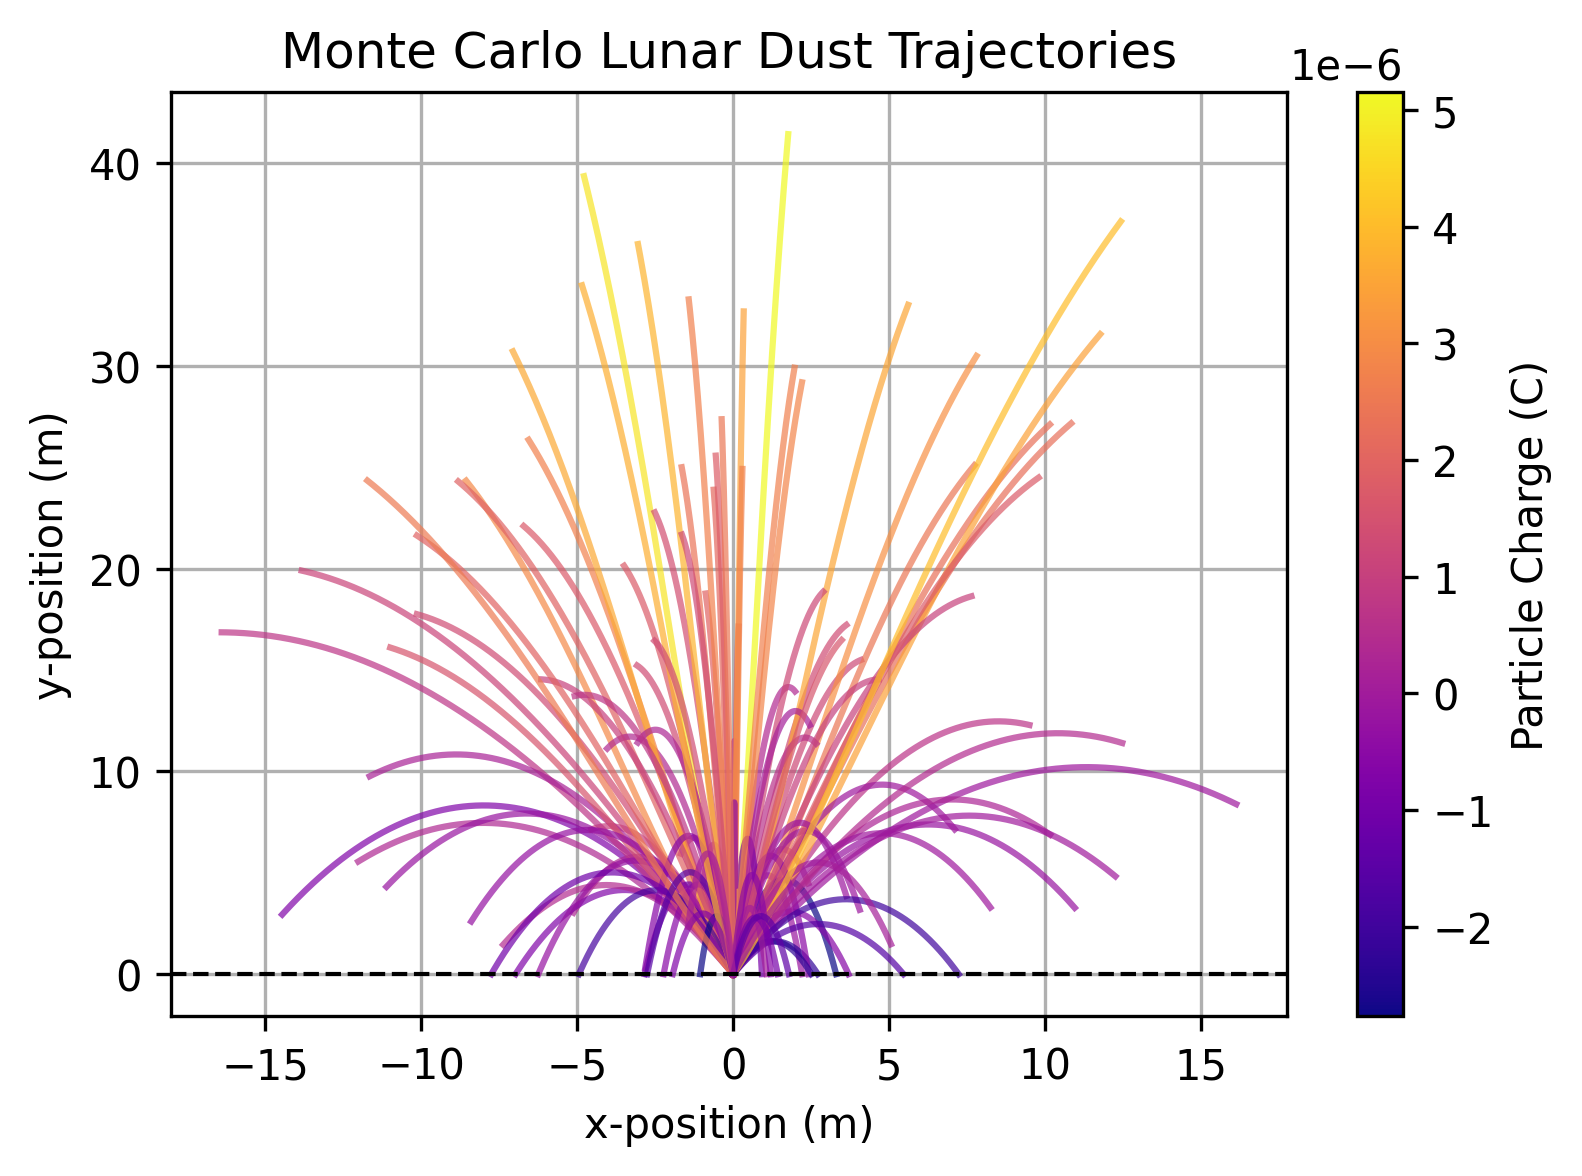
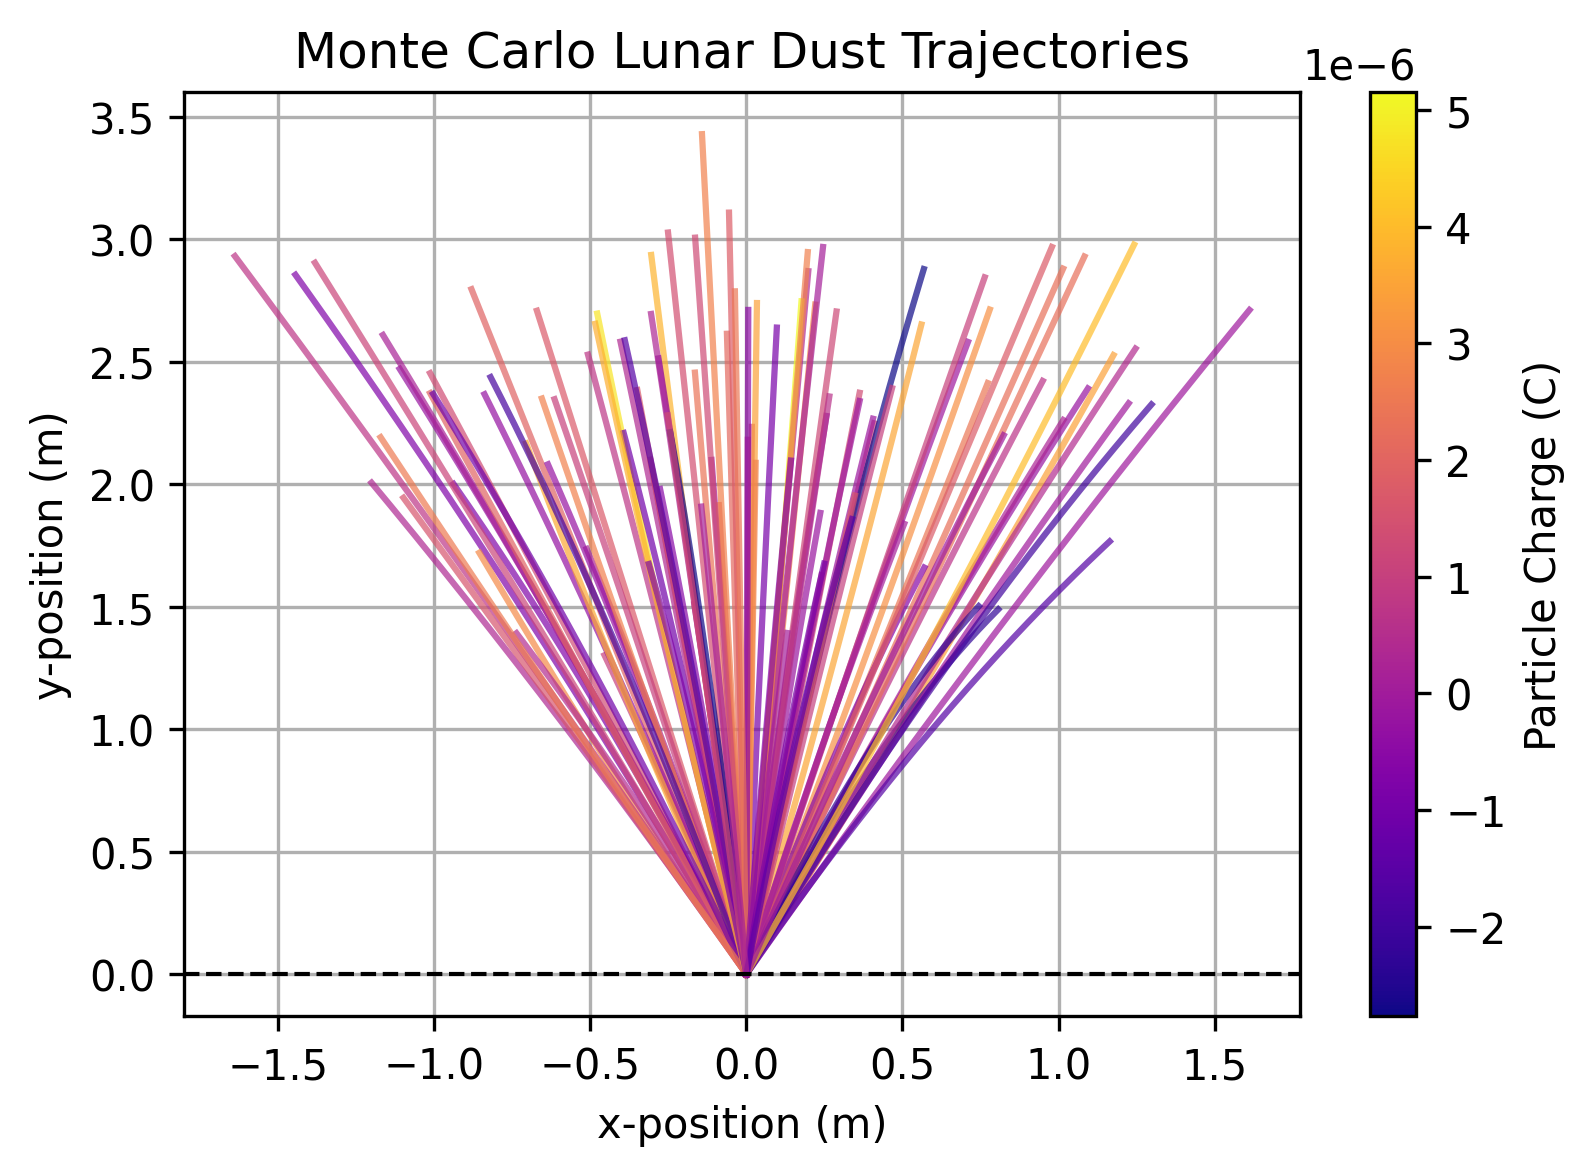
Parameter E0 Study Added

diff --git a/main.py b/main.py
@@ -9,10 +9,10 @@ from src.physics import total_a, grav_and_lorentz_force, electric_field
 from src.simulation import particle_derivatives1, particle_derivatives2
 from src.integrator import rk4_step
 from src.monte_carlo import particle_population_generator
-from src.visualization import plot_trajectories, plot_landing_distribution, histogram
+from src.visualization import plot_trajectories, plot_landing_distribution, histogram, parameter_study_plot
 from src.analysis import landing_distance, max_heights, airborne_durations, summarize_metric
 
-# Monte Carlo Population Parameters
+#Monte Carlo Population Parameters
 NUM_PARTICLES = 100
 
 SPEED_MEAN = 5.0 #m/s
@@ -24,10 +24,15 @@ ANGLE_MAX = 120 #degress
 CHARGE_MEAN = 1e-6 #Coulombs
 CHARGE_STD = 2e-6 #Coulombs
 
-#EFIELD = np.array([0.0, 1000.0]) #N/Coulomb
-E0 = 1500.0 #Coulombs
+#E field parameter study
+E0_values = [500,1000,1500,2000, 3000]
+
+mean_heights = []
+mean_flight_times = []
+landed_fractions = []
+
+#E0 = 1500.0 #Coulombs
 L = 10.0 #m
-#EFIELD = electric_field(y, E0, L)
 
 MASS = 1e-3 #kg
 
@@ -37,118 +42,142 @@ SEED = 500
 DT = 0.0005
 NUM_STEPS = 10000
 
-#Generate Initial Population
-states, charges, masses = particle_population_generator(
-    num_particles=NUM_PARTICLES,
-    speed_avg=SPEED_MEAN,
-    speed_std=SPEED_STD,
-    angle_min_deg=ANGLE_MIN,
-    angle_max_deg=ANGLE_MAX,
-    charge_avg=CHARGE_MEAN,
-    charge_std=CHARGE_STD,
-    mass=MASS,
-    seed=SEED)
+for E0 in E0_values:
+    print(f"\nRunning Simulation for E0 = {E0}")
 
-#Initialize Trajectory Storage
-
-# Shape:
-# [particle_index, timestep_index, state_variable]
-
-
-trajectories = np.zeros((NUM_PARTICLES,
-                         NUM_STEPS,
-                         4))
-
-#Storing Initial states
-trajectories[:, 0, :] = states
-
-# Track whether particles have landed
-landed = np.zeros(NUM_PARTICLES, dtype=bool)
-
-#Time evolve the system
-for i in range(1, NUM_STEPS):
+    #Generate Initial Population
+    states, charges, masses = particle_population_generator(
+        num_particles=NUM_PARTICLES,
+        speed_avg=SPEED_MEAN,
+        speed_std=SPEED_STD,
+        angle_min_deg=ANGLE_MIN,
+        angle_max_deg=ANGLE_MAX,
+        charge_avg=CHARGE_MEAN,
+        charge_std=CHARGE_STD,
+        mass=MASS,
+        seed=SEED)
     
-    current_t = i * DT
+    #Initialize Trajectory Storage
     
-    for particle in range(NUM_PARTICLES):
+    # Shape:
+    # [particle_index, timestep_index, state_variable]
+    
+    
+    trajectories = np.zeros((NUM_PARTICLES,
+                             NUM_STEPS,
+                             4))
+    
+    #Storing Initial states
+    trajectories[:, 0, :] = states
+    
+    # Track whether particles have landed
+    landed = np.zeros(NUM_PARTICLES, dtype=bool)
+    
+    #Time evolve the system
+    for i in range(1, NUM_STEPS):
         
-        # Skip particles that already landed
-        if landed[particle]:
-            trajectories[particle, i, :] = trajectories[particle, i - 1, :]
-            continue
+        current_t = i * DT
         
-        current_state = trajectories[particle, i - 1,:]
-        
-        params = {"charge": charges[particle],
-                  "mass": masses[particle],
-                  "E0": E0,
-                  "L": L}
-        
-        next_state = rk4_step(particle_derivatives2, 
-                              current_state, 
-                              current_t, 
-                              DT, 
-                              params)
-        
-        # Surface Collision Condition
-        if next_state[1] < 0:
-        
-            # Clamp particle to surface
-            next_state[1] = 0
-
-            # Zero vertical velocity
-            next_state[3] = 0
+        for particle in range(NUM_PARTICLES):
             
-            landed[particle] = True
+            # Skip particles that already landed
+            if landed[particle]:
+                trajectories[particle, i, :] = trajectories[particle, i - 1, :]
+                continue
             
-        trajectories[particle, i, :] = next_state
-        
-        
-# for i in range(5):
-
-#     y = trajectories[i, :, 1]
-
-#     print(f"\nParticle {i}")
-
-#     print(y[:30])
+            current_state = trajectories[particle, i - 1,:]
+            
+            params = {"charge": charges[particle],
+                      "mass": masses[particle],
+                      "E0": E0,
+                      "L": L}
+            
+            next_state = rk4_step(particle_derivatives2, 
+                                  current_state, 
+                                  current_t, 
+                                  DT, 
+                                  params)
+            
+            # Surface Collision Condition
+            if next_state[1] < 0:
+            
+                # Clamp particle to surface
+                next_state[1] = 0
     
-plot_trajectories(trajectories, charges)
-plot_landing_distribution(trajectories)
+                # Zero vertical velocity
+                next_state[3] = 0
+                
+                landed[particle] = True
+                
+            trajectories[particle, i, :] = next_state
+        
+    #Display Trajectories
+    plot_trajectories(trajectories, charges, E0=E0)
+    plot_landing_distribution(trajectories, E0=E0)
+    
+    #Statistical Analysis
+    landing_x = landing_distance(trajectories)
+    max_height_values = max_heights(trajectories)
+    flight_times = airborne_durations(trajectories, DT)
+    
+    #Parameter Study Metrics
+    mean_heights.append(np.nanmean(max_height_values))
+    mean_flight_times.append(np.nanmean(flight_times))
+    
+    landed_fraction = (np.sum(~np.isnan(flight_times)) / NUM_PARTICLES)
+    landed_fractions.append(landed_fraction)
+        
+    summarize_metric(landing_x, "Landing Distance (m)")
+    summarize_metric(max_height_values, "Maximum Height (m)")
+    summarize_metric(flight_times, "Airborne Duration (s)")
+    
+    #Display Simulation Info
+    print("\nTrajectory Array Shape:")
+    print(trajectories.shape)
+    
+    print("\nExample Final Particle State:")
+    print(trajectories[0, -1, :])
+    
+    print("\nNumber of landed particles:")
+    print(np.sum(~np.isnan(flight_times)))
+    
+    print("\nNumber of non-landed particles:")
+    print(np.sum(np.isnan(flight_times)))
+    
+    print("\nFlight Times:")
+    print(flight_times[~np.isnan(flight_times)])
+    
+    #Histogram Visualizations
+    histogram(landing_x, xlabel="Landing Distances (m)",
+              title=f'Landing Distance Distribution (E0={E0})', 
+              filename=f"landing_distance_histogram_{E0}.png")
 
-# Statistical Analysis
-landing_x = landing_distance(trajectories)
-max_heights = max_heights(trajectories)
-flight_times = airborne_durations(trajectories, DT)
+    histogram(max_height_values, xlabel="Maximum Height (m)", 
+              title=f"Maximum Height Distribution (E0={E0})", 
+              filename=f"max_height_histogram_{E0}.png")
 
-summarize_metric(landing_x, "Landing Distance (m)")
-summarize_metric(max_heights, "Maximum Height (m)")
-summarize_metric(flight_times, "Airborne Duration (s)")
+    histogram(flight_times, xlabel="Airborne Duration (s)",
+              title=f"Airborne Duration Distribution (E0={E0})",
+              filename=f"airborne_duration_histogram_{E0}.png")
 
-#Display Simulation Info
-print("\nTrajectory Array Shape:")
-print(trajectories.shape)
+#Parameter Study Visualizations
+parameter_study_plot(E0_values,
+                     mean_heights,
+                     xlabel="Surface Electric Field E0 (N/C)",
+                     ylabel="Mean Maximum Height (m)",
+                     title="Mean Maximum Height vs Electric Field Strength", 
+                     filename="mean_height_vs_E0.png")
 
-print("\nExample Final Particle State:")
-print(trajectories[0, -1, :])
+parameter_study_plot(E0_values,
+                     mean_flight_times,
+                     xlabel="Surface Electric Field E0 (N/C)",
+                     ylabel="Mean Airborne Duration (s)",
+                     title="Mean Airborne Duration vs Electric Field Strength",
+                     filename="flight_time_vs_E0.png")
 
-print("\nNumber of landed particles:")
-print(np.sum(~np.isnan(flight_times)))
-
-print("\nNumber of non-landed particles:")
-print(np.sum(np.isnan(flight_times)))
-
-print("\nFlight Times:")
-print(flight_times[~np.isnan(flight_times)])
-
-#Histogram Visualizations
-histogram(landing_x, xlabel="Landing Distances (m)",
-          title='Landing Distance Distribution', 
-          filename="landing_distance_histogram.png")
-
-histogram(max_heights, xlabel="Maximum Height (m)", 
-          title="Maximum Height Distribution", 
-          filename="max_height_histogram.png")
-
-histogram(flight_times, xlabel="Airborne Duration (s)",
-          title="Airborne Duration Distribution",
-          filename="airborne_duration_histogram.png")
+parameter_study_plot(E0_values,
+                     landed_fractions,
+                     xlabel="Surface Electric Field E0 (N/C)", 
+                     ylabel="Landed Fraction",
+                     title="Landed Fraction vs Electric Field Strength",
+                     filename="landed_fraction_vs_E0.png")

diff --git a/src/visualization.py b/src/visualization.py
@@ -9,7 +9,7 @@ import matplotlib.pyplot as plt
 import numpy as np
 import os
 
-def plot_trajectories(trajectories, charges):
+def plot_trajectories(trajectories, charges, E0=None):
     """
     Plots particle trajectories in x-y space.
 
@@ -38,7 +38,12 @@ def plot_trajectories(trajectories, charges):
     
     plt.xlabel("x-position (m)")
     plt.ylabel("y-position (m)")
-    plt.title("Monte Carlo Lunar Dust Trajectories")
+    
+    if E0 is not None: 
+        plt.title(f"Particle Trajectories (E0 = {E0} N/C)")
+    else:
+        plt.title("Particle Trajectories")
+    
     plt.grid()
     plt.axhline(y=0, color='black', linestyle='--', linewidth=1)
     
@@ -53,10 +58,16 @@ def plot_trajectories(trajectories, charges):
     os.makedirs("results", exist_ok=True)
 
     # Save figure
-    plt.savefig("results/trajectory_plot.png", dpi=300, bbox_inches='tight')
+    if E0 is not None:
+        filename = (f"results/trajectory_plot_E0_{E0}.png")
+
+    else:
+        filename = "results/trajectory_plot.png"
+
+    plt.savefig(filename)
     plt.show()
     
-def plot_landing_distribution(trajectories):
+def plot_landing_distribution(trajectories, E0=None):
     """
     Plots final landing positions of particles.
     """
@@ -72,15 +83,22 @@ def plot_landing_distribution(trajectories):
 
     plt.xlabel("Final x-position (m)")
     plt.ylabel("Final y-position (m)")
-    plt.title("Particle Landing Distribution")
+    if E0 is not None: 
+        plt.title(f"Particle Landing Positions (E0 = {E0} N/C)")
+    else:
+        plt.title("Particle Landing Positions")
     plt.grid(True)
 
     # Create results directory if needed
     os.makedirs("results", exist_ok=True)
     
-    # Save figure
-    plt.savefig("results/landing_distribution.png", dpi=300, bbox_inches='tight')
+    if E0 is not None:
 
+        filename = (f"results/landing_distribution_E0_{E0}.png")
+    else:
+        filename = ("results/landing_distribution.png")
+
+    plt.savefig(filename)
     plt.show()
     
 def histogram(values, xlabel, title, filename, bins=20):
@@ -95,6 +113,7 @@ def histogram(values, xlabel, title, filename, bins=20):
         bins : (int): Number of histogram bin
     """
     #Remove NaN values
+    values = np.asarray(values, dtype=float)
     values = values[~np.isnan(values)]
     
     plt.figure(figsize=(8,5))
@@ -107,4 +126,42 @@ def histogram(values, xlabel, title, filename, bins=20):
     #create results directory and store
     os.makedirs("results", exist_ok=True)
     plt.savefig(f"results/{filename}",dpi=300,bbox_inches='tight')
+    plt.show()
+    
+def parameter_study_plot(x_values, y_values, xlabel,ylabel,title,filename):
+    """
+    Plots parameter-study trends.
+    
+    Parameters
+       x_values : list or np.ndarray
+           Parameter values
+    
+       y_values : list or np.ndarray
+           Metric values
+    
+       xlabel : str
+           x-axis label
+    
+       ylabel : str
+           y-axis label
+    
+       title : str
+           Plot title
+    
+       filename : str
+           Output filename
+    """
+    plt.figure(figsize=(8, 5))
+    plt.plot(x_values, y_values, marker='o')
+    plt.xlabel(xlabel)
+    plt.ylabel(ylabel)
+    plt.title(title)
+    plt.grid(True)
+
+    # Create results directory if needed
+    os.makedirs("results", exist_ok=True)
+
+    # Save figure
+    plt.savefig(f"results/{filename}", dpi=300, bbox_inches='tight' )
+
     plt.show()